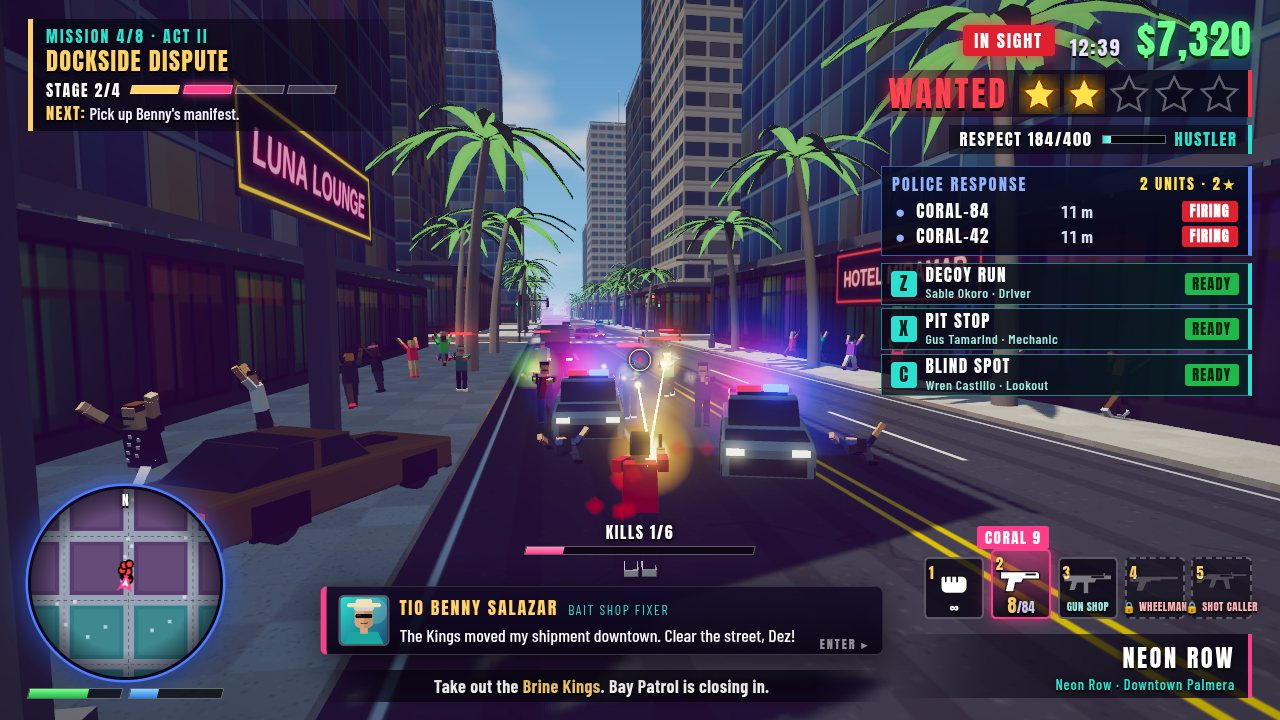
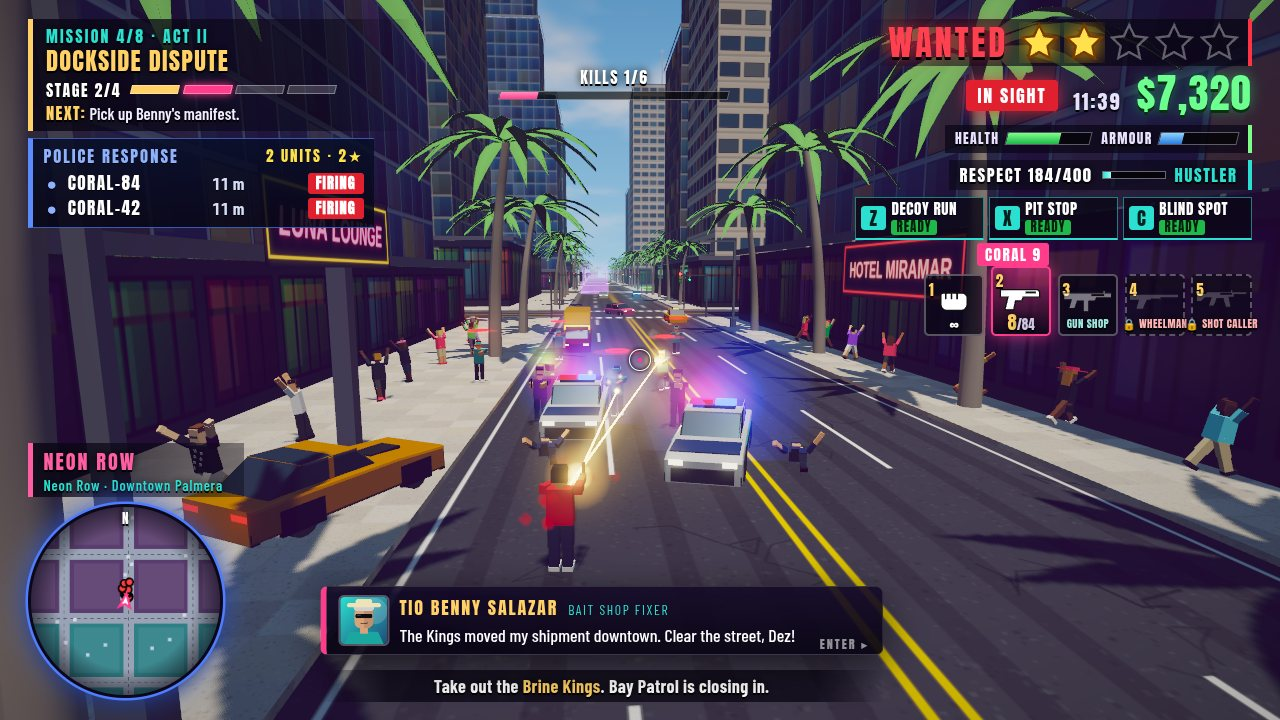
Retake screenshots (chase, onfoot, garage, map) and update README
Real renders from tools/take-screenshots.mjs; 3-race.jpg replaced by 3-garage.jpg.

diff --git a/README.md b/README.md
@@ -22,13 +22,14 @@ Everything is generated in code: the city geometry, canvas-drawn facades and neo
 | `E` | Interact: shops, garages, chop shop, safehouse save, race starts, recruit crew, police siren |
 | `Z` / `X` / `C` | Crew abilities: Decoy Run (driver), Pit Stop (mechanic), Blind Spot (lookout) |
 | `1`-`0` in a garage | Paint, repair, engine / armour / tyre upgrades, plate swap |
+| `Q` in a garage | Switch between the WORKSHOP and SHOWROOM tabs |
 | `T` / `H` | Taxi fares in a Sunfare Cab / horn |
 | `M` or `Esc` | City map, stats, save and settings |
 | `Enter` | Skip dialogue |
 
 ### Features
 
-- **Palmera Bay**: a street grid of 63 blocks across five districts (Neon Row downtown, the Coral Strand beach strip, Hibiscus Heights suburbs, Azucar Market, Rustwater Docks) plus Pelican Causeway out to Isla Dorada, a pier with a Ferris wheel, dock cranes and a 200 m landmark tower.
+- **Palmera Bay**: a street grid of 63 blocks across five districts (Neon Row downtown, the Coral Strand beach strip, Hibiscus Heights suburbs, Azucar Market, Rustwater Docks) plus Pelican Causeway out to Isla Dorada, a pier with a Ferris wheel, dock cranes, a 200 m landmark tower and the Arco del Sol, a coral-and-gold gateway arch over the south end of Corsair Boulevard.
 - **On foot and behind the wheel**: third-person movement, ten vehicle types (sports, muscle, sedan, compact, pickup, van, taxi, police interceptor, armoured van, motorbike) with arcade physics, drifting, damage, smoke, fire and explosions.
 - **A living city**: lane-following traffic that obeys traffic lights and queues, pedestrians who walk the sidewalks, cross at corners and run from gunfire, parked cars, a day/night cycle with golden-hour light, street lamps and neon at night.
 - **Wanted level**: five stars, witnesses, patrol cars that join the chase, cruisers that route through the road graph, ram and shoot, officers who arrest or open fire, roadblocks at three stars, a helicopter with a searchlight at four. Break line of sight or respray to lose them.
@@ -36,7 +37,8 @@ Everything is generated in code: the city geometry, canvas-drawn facades and neo
 - **Story**: eight chained missions across three acts with dialogue and an original cast (drive-to, steal and deliver, chase and ram, timed delivery, shoot-out, getaway, bank heist hold-out, four-star escape and a final showdown).
 - **Street races**: three races started at purple `R` markers (Boulevard Sprint, the two-lap Neon Row Circuit, the Causeway Drag) with a countdown, checkpoints, three rival drivers on the same car physics, a race HUD (position, lap, checkpoint, time), prize money and saved wins and best times.
 - **Crew**: three recruitable allies waiting at teal `C` markers. Sable Okoro (driver, Decoy Run drops a wanted star), Gus Tamarind (mechanic, Pit Stop repairs the car) and Wren Castillo (lookout, Blind Spot jams police sight for 12 seconds), each on a cooldown shown in the HUD crew panel.
-- **Garages**: Odette's Respray and Coral Strand Customs open a garage panel with five paint colours, repair, three levels each of engine, armour and tyre upgrades that tune every car Dez drives, and a plate swap that shakes an unseen wanted level.
+- **Garages**: Odette's Respray and Coral Strand Customs take the car inside a lit workshop bay where it turns on a turntable. The WORKSHOP tab has five respray swatches, repair, three stages each of engine, armour and tyre upgrades (OWNED once maxed) that tune every car Dez drives, and a plate swap that shakes an unseen wanted level. The SHOWROOM tab lists every car model, OWNED once Dez has driven one and LOCKED otherwise.
+- **HUD**: mission card and police response list (four units plus "+N more") on the left; wanted stars, cash and clock, health and armour bars, respect rank, crew ability chips and the weapon bar on the right; the district and street label above the minimap; vehicle, speed, condition and radio bottom right; one dialogue box bottom centre. The pause map adds a stats header (missions, activities, vehicles, weapons, districts, radio) and an icon legend.
 - **Side hustles**: three street races on the Causeway and downtown, a crew of three recruitable allies (driver, mechanic, lookout) with hotkey abilities, and a garage with respray, plate swap and upgrades.
 - **Side hustles and progression**: taxi fares, chop shop, gun shop unlocks by respect rank, 12 golden flamingos, money, respect ranks, and a completion percentage that counts races, crew and garage upgrades.
 - **Interface**: HUD with rotating minimap, GPS route line, police and mission blips, wanted stars and IN SIGHT / SEARCHING status, a live police response panel with unit callsigns and status chips, respect rank, money, health and armour, a five-slot weapon bar with ammo, vehicle condition and speed, a compact radio chip, and portrait dialogue. Pause tabs cover MAP, STORY, STATS, CREW, SETTINGS, CONTROLS and SAVE. Three manual save slots plus mission autosaves live in localStorage; the start screen offers Continue and a real save list.
@@ -46,7 +48,7 @@ Everything is generated in code: the city geometry, canvas-drawn facades and neo
 
 `game/src/` is split by job: `core/` (loop, state, input), `world/` (city generation, textures, sky, lighting), `vehicles/`, `characters/`, `combat/`, `police/`, `systems/` (wanted level, economy, garage, pickups, saves), `missions/`, `races/`, `crew/`, `ui/`, `audio/`, `render/` and `shots/` (deterministic screenshot scenes, `index.html?shot=chase&seed=1`).
 
-The four captured live scenes are `chase`, `onfoot`, `race` and `map`: a four-star morning pursuit up Corsair Boulevard with rush-hour traffic, pedestrians, six police units and Air One; a midday mission gunfight on Neon Row; the Causeway Drag street race; and the city map with progression, races, crew, garages and saves (`start`, the title menu, is still available as a scene). Screenshots are 1280×720 JPEGs under 240 KiB, named `1-chase.jpg` through `4-map.jpg`.
+The four captured live scenes are `chase`, `onfoot`, `garage` and `map`: a sunlit four-star pursuit up Corsair Boulevard toward the Arco del Sol, with rush-hour traffic, pedestrians, six police units and Air One's searchlight; a late-morning mission gunfight on Neon Row; the Coral Strand Customs workshop with the car on the turntable; and the city map with the stats header, legend, progression, races, crew, garages and saves (`race` and `start`, the title menu, are still available as scenes). Screenshots are 1280×720 JPEGs under 240 KiB, named `1-chase.jpg` through `4-map.jpg`.
 
 `tools/take-screenshots.mjs` regenerates `screenshots/` from the real game in headless Chrome, and `tools/smoke-test.mjs` plays through the main systems and fails on any console error (both need `npm install --no-save playwright-core`).
 
